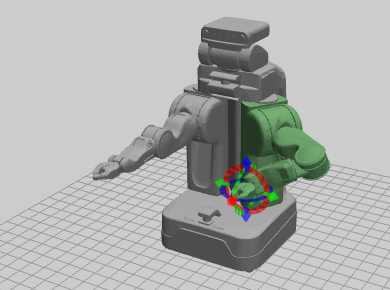
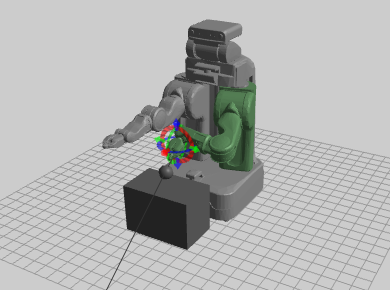
added Snap-to-Object to main gallery

diff --git a/scenes/snap_to_object/index.html b/scenes/snap_to_object/index.html
@@ -3,9 +3,16 @@
 <head>
 <meta charset="utf-8" />
 
+<link rel="stylesheet" type="text/css" href="../../css/silk.css">
+
 <style>
 body {
-margin: 0px;
+  margin: 0px;
+  background-color: #cccccc;
+  overflow: hidden;
+}
+.column {
+    max-width: none;
 }
 </style>
 
@@ -29,9 +36,26 @@ margin: 0px;
 
 <!-- <script src="http://cdn.robotwebtools.org/threejs/r61/ColladaLoader.js"></script> -->
 
+
 </head>
 <!-- <body onload="init()"> -->
 <body>
+
+    <div class="column">
+
+            <div id="markers"></div>
+            
+            <div class="blurb">
+                <div class="title">Snap to Object</div>
+                <div class="description">The PR2 gripper snaps to the XZ plane.</div>
+            </div>
+
+            <div class="navigation">
+                <a href="../../">Top</a> / <a href="../../about.html">About</a>
+            </div>
+
+    </div>
+
  <script>
   var ros, viewer, marker_client;
 
@@ -148,7 +172,6 @@ margin: 0px;
     viewer.camera.position.applyMatrix4((new THREE.Matrix4).makeRotationX(Math.PI/2));
 }
 </script>
- <div id="markers"></div>
   <!-- <script> init(); </script> -->
 </body>
 </html>

diff --git a/index.html b/index.html
@@ -48,6 +48,13 @@
                 <!-- Use physics sim to control PR2 -->
                 <!-- Storyboarding of motions (panels, motion arrows) -->
 
+
+            <a class="preview-image-box" href="scenes/snap_to_object" style="background-image:url(scenes/snap_to_object/thumb.png)"> 
+                <div class="preview-text-box"> 
+                    <div class="title">Snap to Object</div>
+                    <div class="description">The PR2 gripper snaps to the XZ plane.</div>
+                </div>
+            </a>
             <a class="preview-image-box" href="scenes/interactive_marker" style="background-image:url(scenes/interactive_marker/thumb.png)"> 
                 <div class="preview-text-box"> 
                     <div class="title">Interactive Marker</div>
